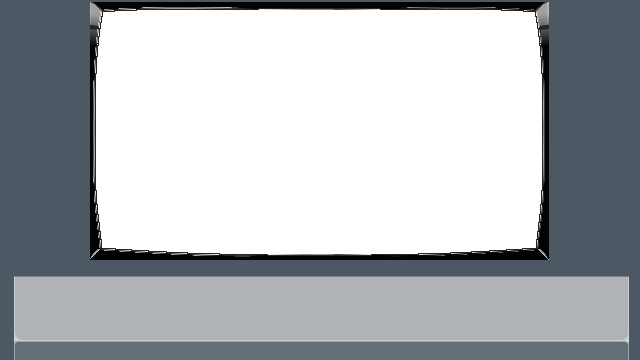
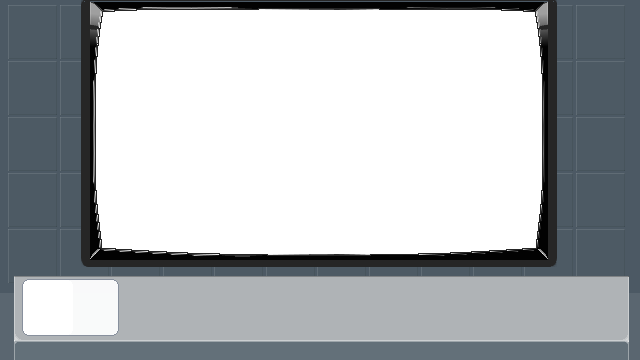
Added clickable button, should be the basis for all the buttons

Changed region(s): [[0.0312, 0.0, 0.875, 0.9472], [0.4688, 0.0, 0.5938, 0.0306]]

diff --git a/ui.py b/ui.py
@@ -302,8 +302,8 @@ class UIRoot(RootElement):
             item.Draw()
 
         #For ui textures if we need them
-        #drawing.ResetState()
-        #drawing.DrawAll(globals.screen_texture_buffer,globals.ui_atlas.texture)
+        drawing.ResetState()
+        drawing.DrawAll(globals.ui_buffer,globals.ui_atlas.texture)
 
     def Update(self,t):
         #Would it be faster to make a list of items to remove and then remove them, rather than build a new list?
@@ -455,6 +455,73 @@ class Box(UIElement):
 
 class HoverableBox(Box,HoverableElement):
     pass
+
+class ImageBox(Box):
+    def __init__(self,parent,pos,texture_name,buffer=None,level = None):
+        try:
+            self.texture_normal, self.texture_depressed = texture_name
+        except ValueError:
+            self.texture_normal, self.texture_depressed = (texture_name, texture_name)
+
+        self.tc_normal = globals.ui_atlas.TextureUiCoords(self.texture_normal)
+        self.tc_depressed = globals.ui_atlas.TextureUiCoords(self.texture_depressed)
+
+        self.size_pixels = globals.ui_atlas.TextureUiSubimage(self.texture_normal).size
+        tr = pos + parent.GetRelative(self.size_pixels * globals.scale)
+
+        super(Box,self).__init__(parent,pos,tr)
+        if buffer == None:
+            buffer = globals.ui_buffer
+
+        self.quad = drawing.Quad(buffer)
+
+        self.extra_level = 0 if level == None else level
+        self.quad.SetVertices(self.absolute.bottom_left,
+                              self.absolute.top_right,
+                              self.level + self.extra_level)
+        self.quad.SetTextureCoordinates(self.tc_normal)
+        self.Enable()
+
+class ImageBoxButton(ImageBox):
+    def __init__(self,
+                 parent,
+                 pos,
+                 texture_name,
+                 callback,
+                 buffer=None,
+                 level=None):
+        self.callback = callback
+        super(ImageBoxButton,self).__init__(parent,pos,texture_name,buffer,level)
+        self.root.RegisterUIElement(self)
+        #self.registered = False
+        #self.Enable()
+
+    def SetPos(self,pos):
+        #FIXME: This is shit. I can't be removing and adding every frame
+        #reregister = self.enabled
+        #if reregister:
+        #    self.root.RemoveUIElement(self)
+        print 'snark'
+        super(ImageBoxButton,self).SetPos(pos)
+        #self.SetVertices()
+        #if reregister:
+        #    self.root.RegisterUIElement(self)
+
+
+    def Depress(self, pos):
+        self.quad.SetTextureCoordinates(self.tc_depressed)
+
+    def Undepress(self):
+        self.quad.SetTextureCoordinates(self.tc_normal)
+
+    def Delete(self):
+        self.border.Delete()
+        super(ImageBoxButton,self).Delete()
+
+    def OnClick(self,pos,button):
+        if self.callback:
+            self.callback(self,pos,button)
+
 
 class TextBox(UIElement):
     """ A Screen-relative text box wraps text to a given size """

diff --git a/orbital.py b/orbital.py
@@ -48,7 +48,7 @@ def Init():
     screen = pygame.display.set_mode((w,h),pygame.OPENGL|pygame.DOUBLEBUF)
     pygame.display.set_caption('Orbital Engagement')
 
-    drawing.Init(globals.screen.x,globals.screen.y,(globals.screen))
+    drawing.Init(globals.screen_abs.x,globals.screen_abs.y,(globals.screen))
 
     globals.backdrop_texture = drawing.texture.Texture('screen.png')
     globals.screen.backdrop = drawing.Quad(globals.backdrop_buffer, tc=drawing.constants.full_tc)
@@ -83,12 +83,13 @@ while not done:
 
     globals.current_view.Update(t)
     globals.current_view.Draw()
-    globals.screen_root.Draw()
 
     drawing.EndCrt()
     globals.text_manager.Draw()
     drawing.DrawAll( globals.backdrop_buffer, globals.backdrop_texture )
+    globals.screen_root.Draw()
     pygame.display.flip()
+
 
     eventlist = pygame.event.get()
     for event in eventlist:
@@ -117,13 +118,13 @@ while not done:
             if event.type == pygame.MOUSEMOTION:
                 globals.mouse_screen = Point(event.pos[0],globals.screen_abs[1]-event.pos[1])
                 rel = Point(event.rel[0],-event.rel[1])
-                handled = globals.screen_root.MouseMotion(pos,rel,False)
+                handled = globals.screen_root.MouseMotion(globals.mouse_screen,rel,False)
                 if handled:
                     globals.current_view.CancelMouseMotion()
-                globals.current_view.MouseMotion(pos,rel,True if handled else False)
+                globals.current_view.MouseMotion(globals.mouse_screen,rel,True if handled else False)
             elif (event.type == pygame.MOUSEBUTTONDOWN):
                 for layer in globals.screen_root,globals.current_view:
-                    handled,dragging = layer.MouseButtonDown(pos,event.button)
+                    handled,dragging = layer.MouseButtonDown(globals.mouse_screen,event.button)
                     if handled and dragging:
                         globals.dragging = dragging
                         break
@@ -132,7 +133,7 @@ while not done:
 
             elif (event.type == pygame.MOUSEBUTTONUP):
                 for layer in globals.screen_root,globals.current_view:
-                    handled,dragging = layer.MouseButtonUp(pos,event.button)
+                    handled,dragging = layer.MouseButtonUp(globals.mouse_screen,event.button)
                     if handled and not dragging:
                         globals.dragging = None
                     if handled:

diff --git a/game_view.py b/game_view.py
@@ -178,6 +178,7 @@ class GameView(ui.RootElement):
 
     def __init__(self):
         self.atlas = globals.atlas = drawing.texture.TextureAtlas('tiles_atlas_0.png','tiles_atlas.txt')
+        globals.ui_atlas = drawing.texture.TextureAtlas('ui_atlas_0.png','ui_atlas.txt',extra_names=False)
         self.game_over = False
         #pygame.mixer.music.load('music.ogg')
         #self.music_playing = False
@@ -232,7 +233,28 @@ class GameView(ui.RootElement):
 
         self.scan_start = None
         self.move_direction = Point(0,0)
+        self.console_rows = []
+        for i in xrange(9):
+            bl = Point(0.0328125,0.0395) - Point(0,0.015*i)
+            tr = bl + Point(0.153,0.18)
+            box = ui.TextBox(parent = globals.screen_root,
+                             bl     = bl         ,
+                             tr     = tr         ,
+                             text   = 'test %d a b c d e f g h' % i ,
+                             textType = drawing.texture.TextTypes.SCREEN_RELATIVE,
+                             colour = (0,1,0,1),
+                             scale  = 4)
+
+
+        self.test_button = ui.ImageBoxButton(globals.screen_root,
+                                             Point(0.2,0.1),
+                                             ('button_up_1.png','button_down_1.png'),
+                                             self.callback_test)
+
         self.StartMusic()
+
+    def callback_test(self, caller, pos, button):
+        print 'click'
 
     def fill_state(self):
         try:

diff --git a/drawing/texture.py b/drawing/texture.py
@@ -153,6 +153,9 @@ class TextureAtlas(object):
     def TextureSubimage(self,name):
         return self.Subimage(os.path.join(globals.dirs.sprites,name))
 
+    def TextureUiSubimage(self,name):
+        return self.Subimage(os.path.join(globals.dirs.ui,name))
+
     def TextureTextureSubimage(self,name):
         return self.Subimage(os.path.join(globals.dirs.textures,name))
 
@@ -259,7 +262,7 @@ class TextManager(object):
         return out
 
     def Draw(self):
-        glLoadIdentity()
+        #glLoadIdentity()
         opengl.DrawAll(self.quads,self.atlas.texture)
 
     def Purge(self):

diff --git a/drawing/opengl.py b/drawing/opengl.py
@@ -247,7 +247,7 @@ def EndCrt():
     crt_shader.Use()
     glUniform1f(crt_shader.locations.global_time, globals.time/1000.0)
     crt_buffer.BindForReading(0)
-    glClearColor(0.0, 1.0, 0.0, 1.0)
+    glClearColor(0.0, 0.0, 0.0, 1.0)
     glClear(GL_COLOR_BUFFER_BIT | GL_DEPTH_BUFFER_BIT)
     glEnableVertexAttribArray( crt_shader.locations.vertex_data );
     glEnableVertexAttribArray( crt_shader.locations.tc_data );
